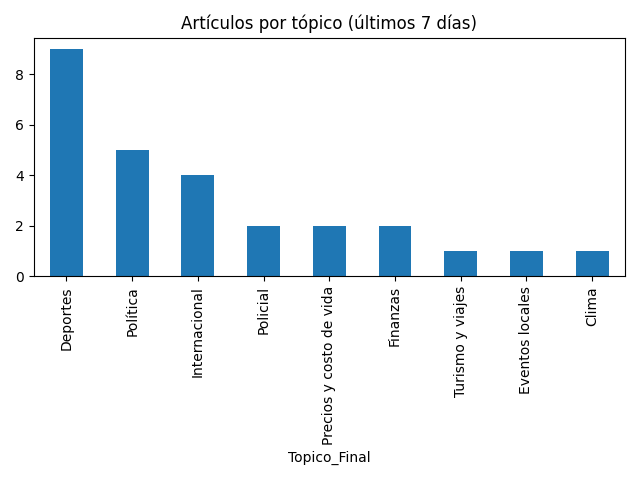
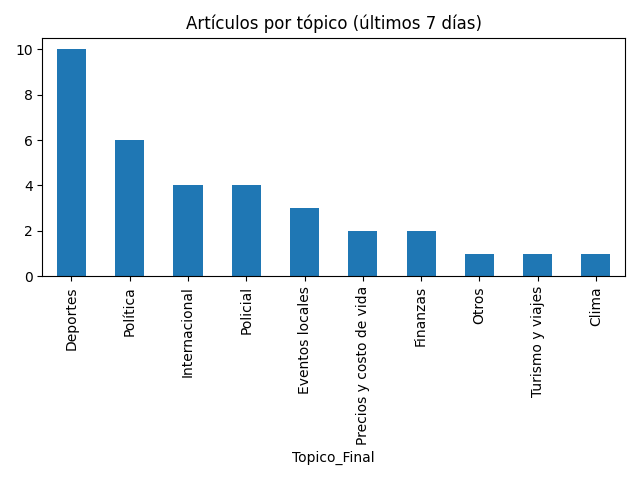
📰 Newsletter 2025-06-27

diff --git a/salida/2025-06-27-newsletter.md b/salida/2025-06-27-newsletter.md
@@ -1,8 +1,8 @@
 # Newsletter semanal (2025-06-27)
 
-**Total de artículos (20 Jun – 27 Jun):** 27  
+**Total de artículos (20 Jun – 27 Jun):** 34  
 
-**Tópicos cubiertos:** 9
+**Tópicos cubiertos:** 10
 
 ---
 
@@ -13,9 +13,16 @@
 
 ---
 
-## 📊 Distribución por tópico
+## 📑 Notas publicadas vs vistas por tópico
 
-![Artículos por tópico](bar_topics.png)
+![Notas vs vistas](bars_notes_views.png)
+
+
+---
+
+## 🗓 Vistas por día y tópico
+
+![Heatmap vistas día y tópico](heatmap_topics.png)
 
 
 ---
@@ -24,21 +31,24 @@
 
 | Tópico | Notas | % Total | Vistas | Vistas/Nota |
 |---|---:|---:|---:|---:|
-| Deportes | 9 | 33% | 17 | 1.9 |
-| Política | 5 | 19% | 5 | 1.0 |
-| Internacional | 4 | 15% | 5 | 1.2 |
-| Policial | 2 | 7% | 9 | 4.5 |
-| Precios y costo de vida | 2 | 7% | 4 | 2.0 |
-| Finanzas | 2 | 7% | 3 | 1.5 |
-| Turismo y viajes | 1 | 4% | 2 | 2.0 |
-| Eventos locales | 1 | 4% | 3 | 3.0 |
+| Deportes | 10 | 29% | 21 | 2.1 |
+| Política | 6 | 18% | 11 | 1.8 |
+| Internacional | 4 | 12% | 5 | 1.2 |
+| Policial | 4 | 12% | 16 | 4.0 |
+| Eventos locales | 3 | 9% | 7 | 2.3 |
+| Precios y costo de vida | 2 | 6% | 5 | 2.5 |
+| Finanzas | 2 | 6% | 3 | 1.5 |
+| Otros | 1 | 3% | 3 | 3.0 |
 
 ---
 
 ## ✨ Artículos destacados
 
 ### Condenan a nueve personas por millonaria estafa inmobiliaria en Calamuchita
-*26 Jun 2025 — 5 vistas*
+*26 Jun 2025 — 6 vistas*
+
+### Arrestan a un policía en Córdoba por integrar una red de estafas a través de Tinder
+*26 Jun 2025 — 4 vistas*
 
 ### Después de 12 años vuelve el Rally Cordobés a Río Cuarto
 *25 Jun 2025 — 4 vistas*
@@ -46,16 +56,14 @@
 ### Aumento de combustibles: los 12 trucos para ahorrar hasta 40% de nafta y gasoil
 *25 Jun 2025 — 4 vistas*
 
-### Arrestan a un policía en Córdoba por integrar una red de estafas a través de Tinder
-*26 Jun 2025 — 4 vistas*
-
 
 ---
 
 ## 🔮 Recomendaciones
 
-- Refuerzo en **Policial**: alto interés con pocas notas (engagement: 4.5).
-- Optimizar **Política**: bajo interés relativo pese a varias notas (engagement: 1.0).
+- Refuerzo en **Turismo y viajes**: alto interés con pocas notas (engagement: 3.0).
+- Optimizar **Internacional**: bajo interés relativo pese a varias notas (engagement: 1.2).
+- Buen rendimiento en **Policial**: mantener estrategia (engagement: 4.0).
 
 ## ✍ Autores de la semana
 
